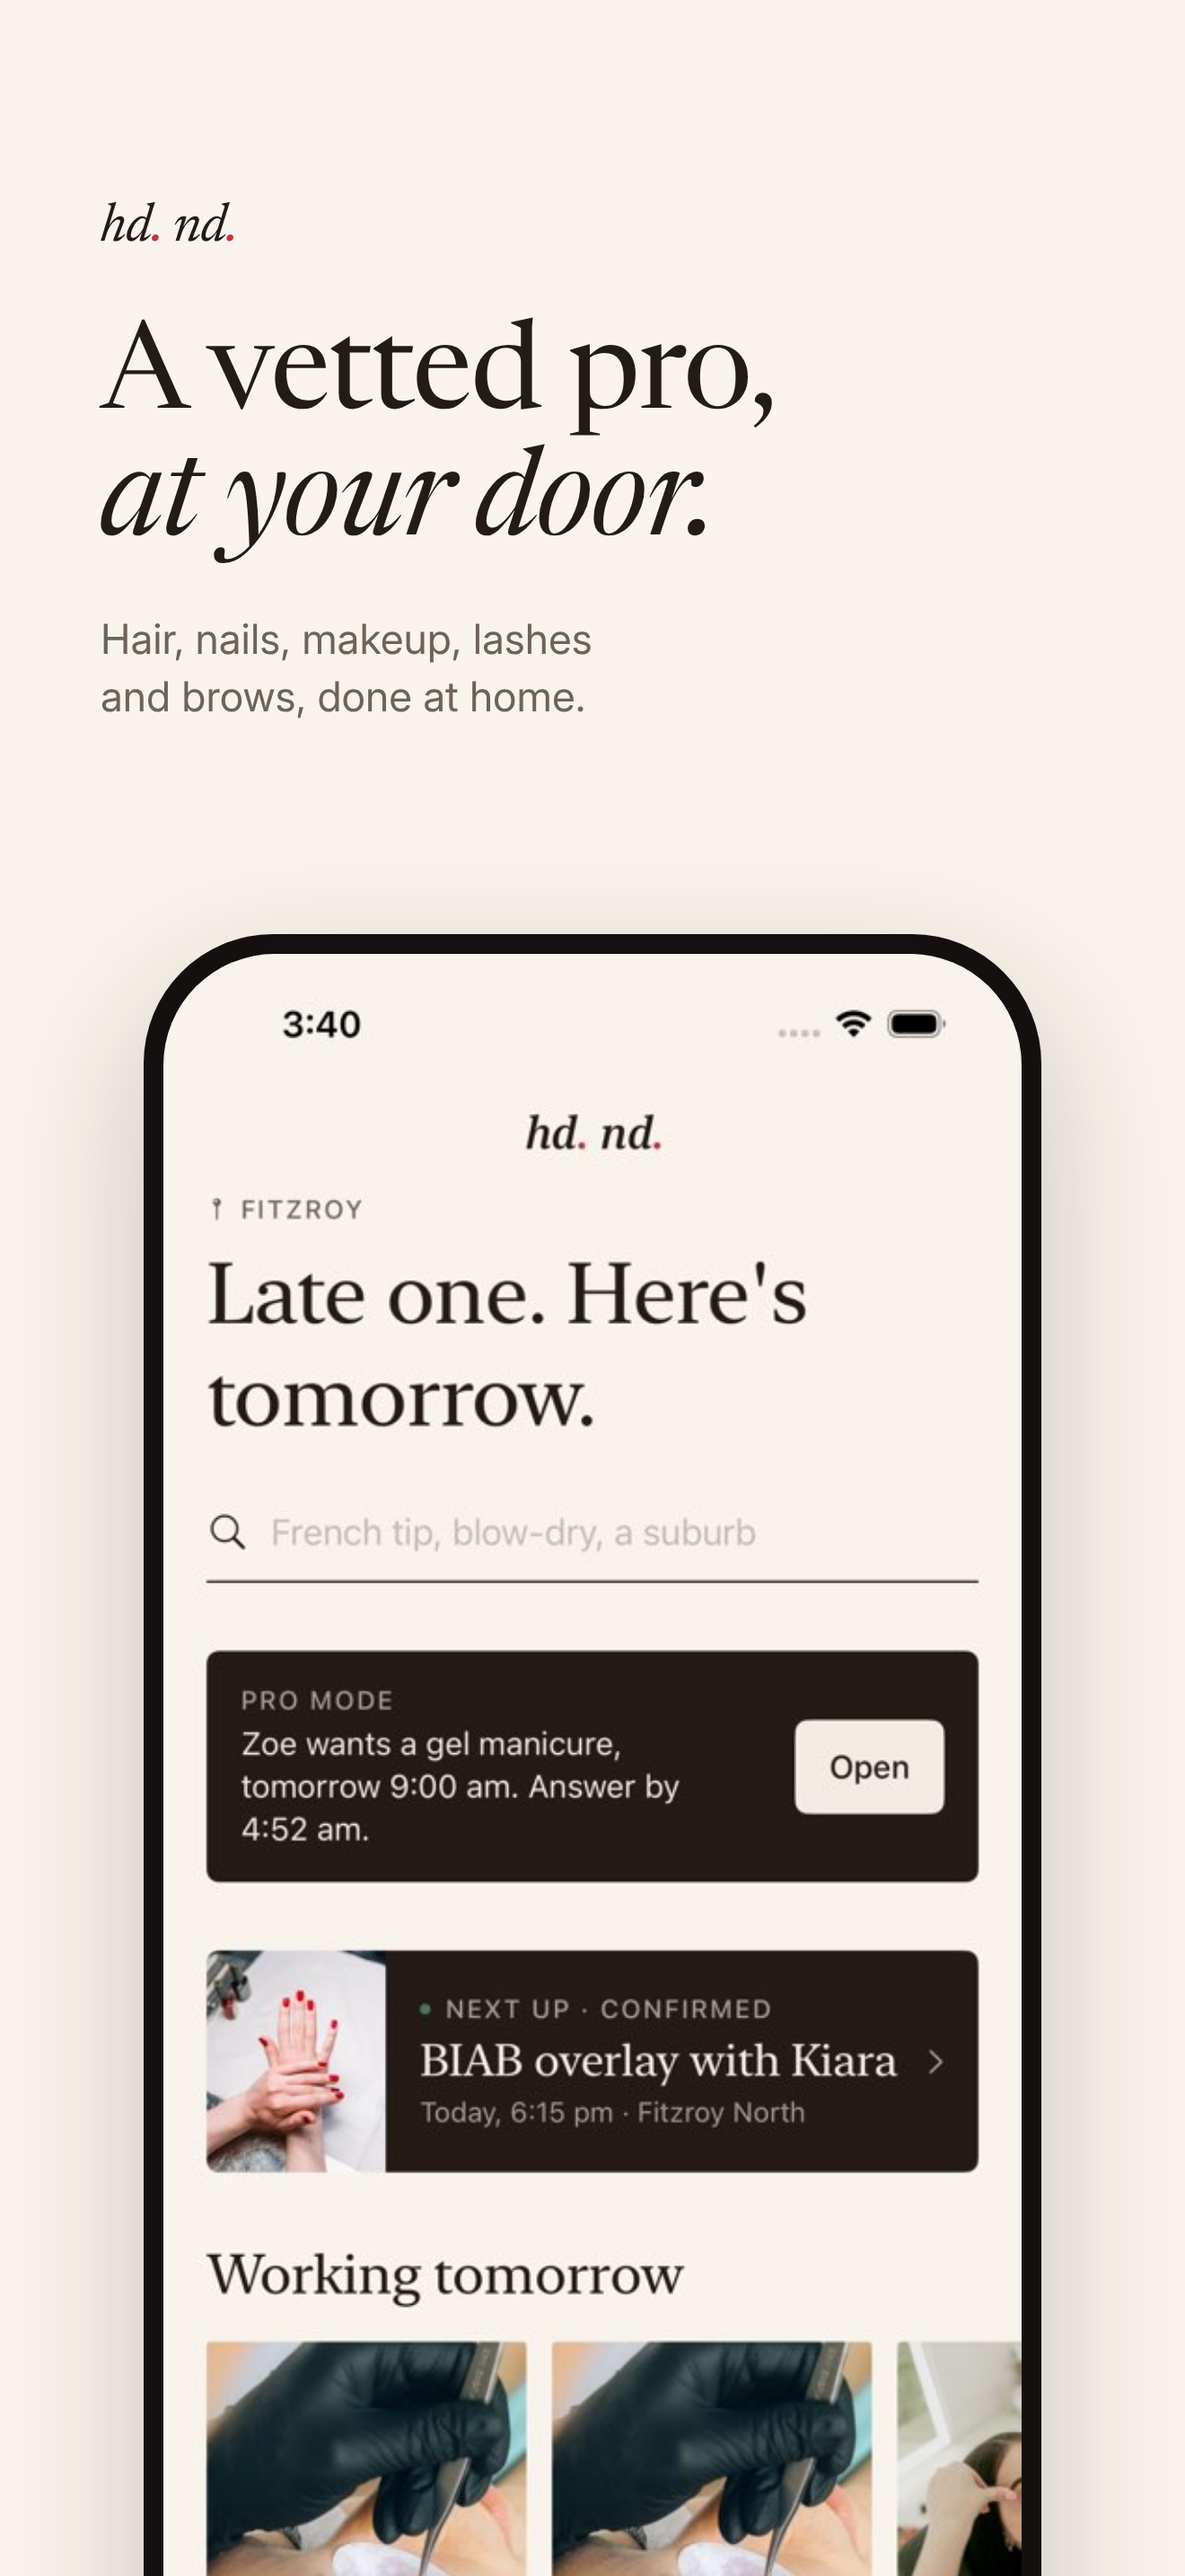
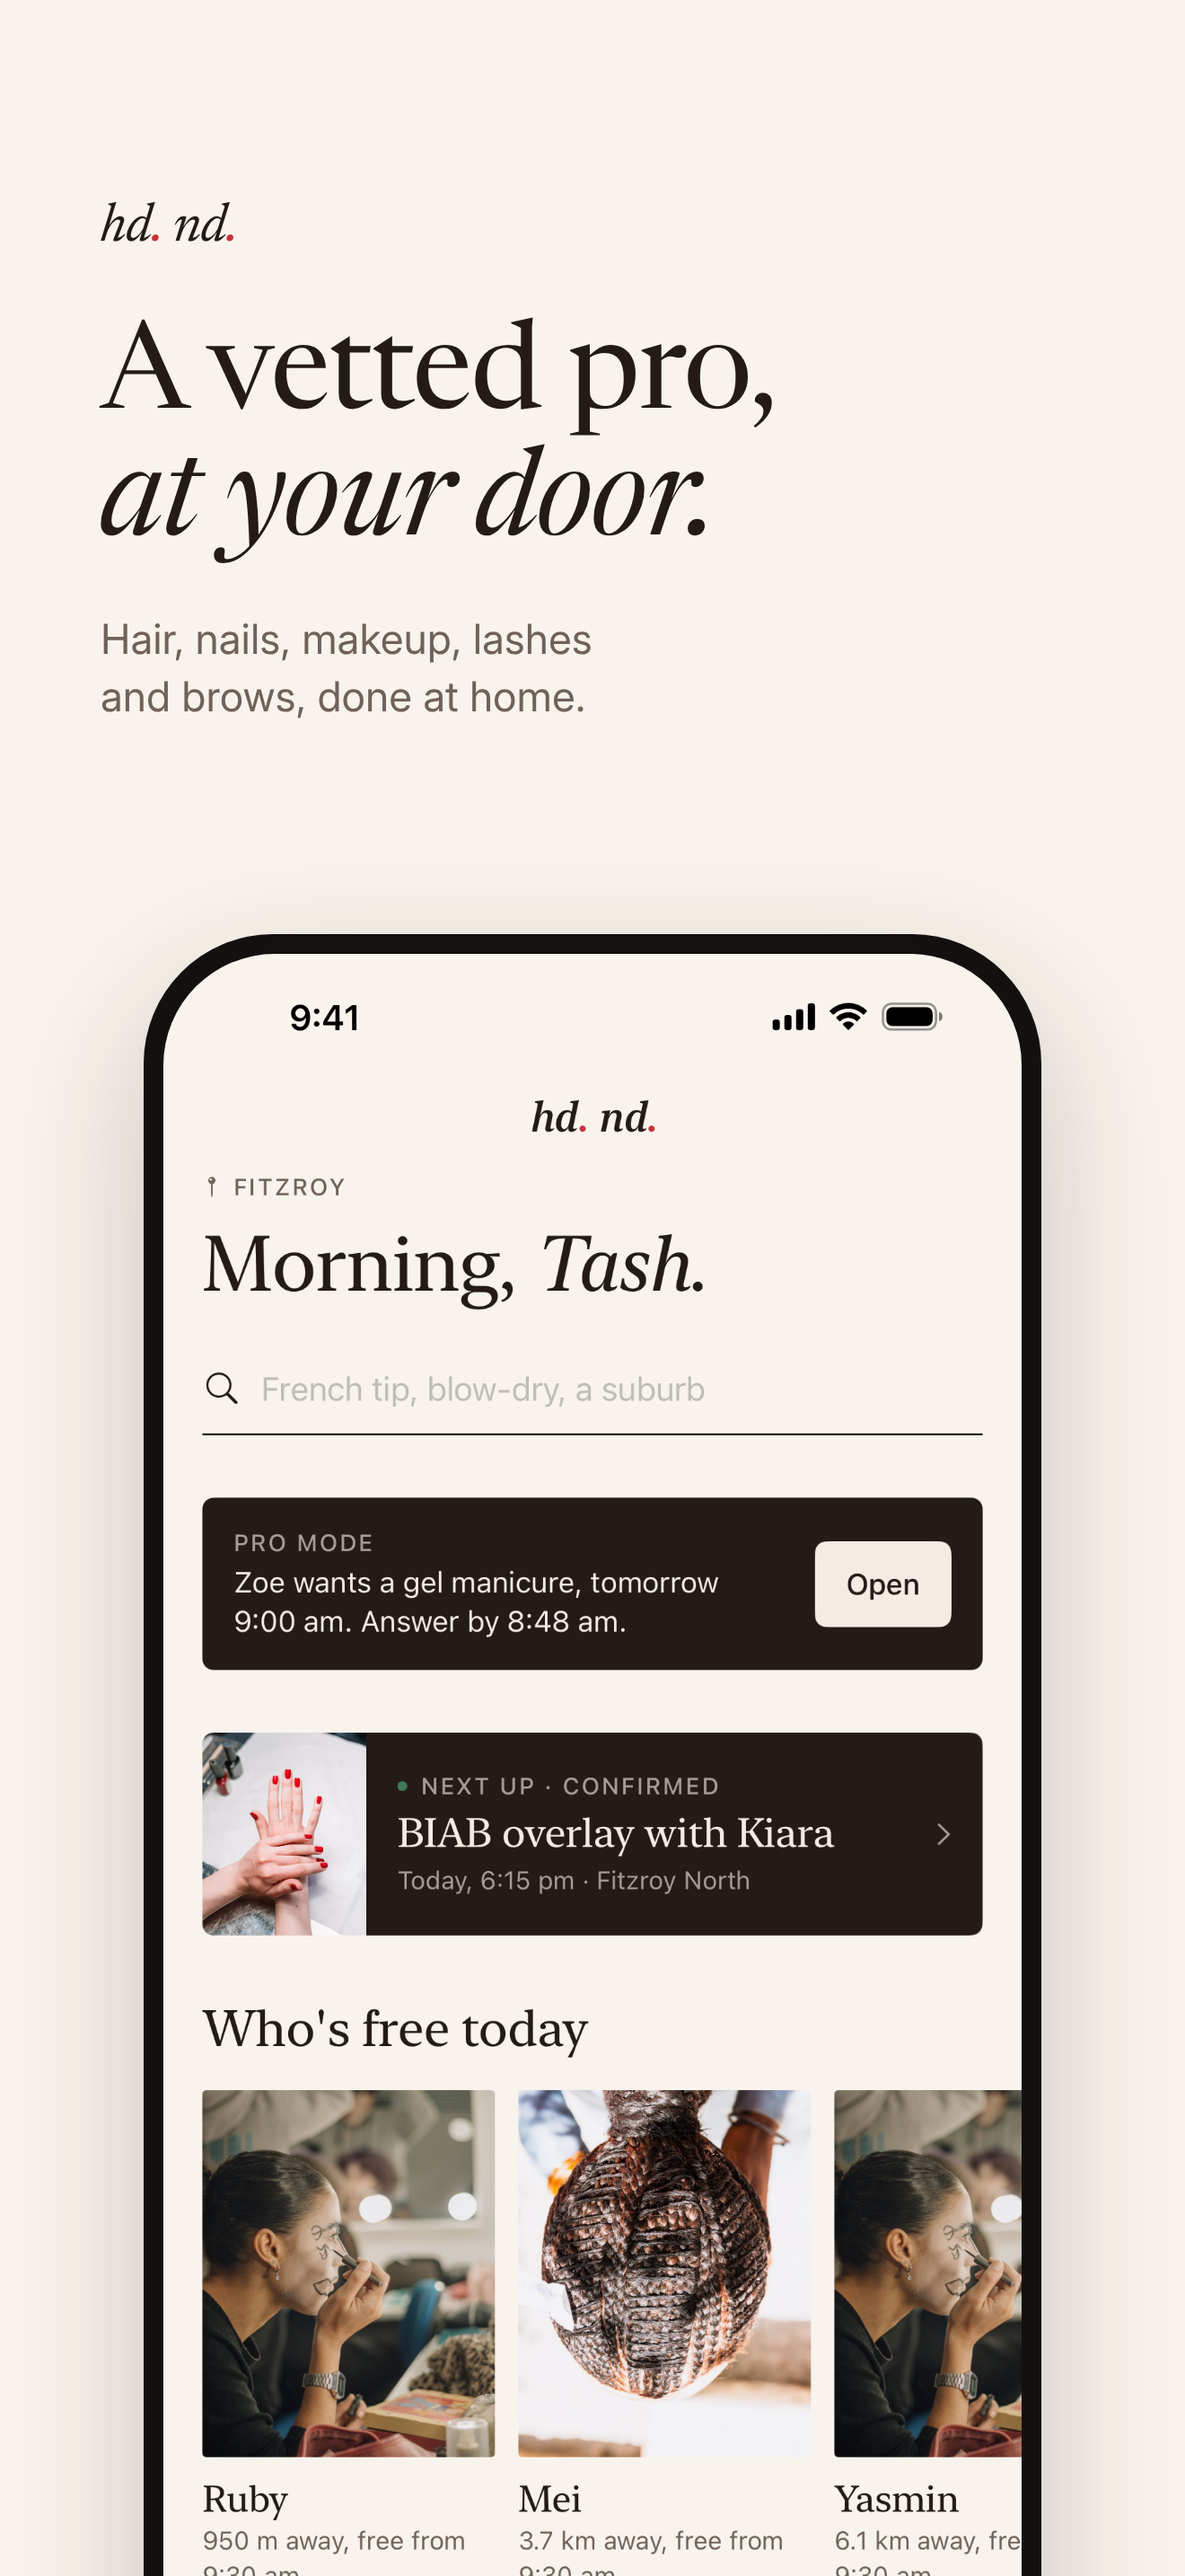
App Store screenshots: the final six, from the real app
docs/app-store/screenshots/1-6.png, 1320 x 2868 RGB, for App Store Connect's 6.9-inch slot.

Claude-Session: https://claude.ai/code/session_01V3fgQkRmMxs5jjtqfekmEC

Changed region(s): [[0.1553, 0.4344, 0.8697, 1.0], [0.6523, 0.3724, 0.8076, 0.4034], [0.2485, 0.3724, 0.3106, 0.4034]]

diff --git a/hair-done/docs/design/mockups/appstore/appstore-4.html b/hair-done/docs/design/mockups/appstore/appstore-4.html
@@ -13,4 +13,4 @@ body.ink p{color:rgba(248,243,236,.72)}
   border-radius:72px;box-shadow:0 30px 80px rgba(36,26,22,.22)}
 body.ink .phone{background:#000;box-shadow:0 0 0 1.5px rgba(248,243,236,.18)}
 .phone img{display:block;width:100%;border-radius:62px}
-</style></head><body class=""><div class="cap"><div class="mark">hd<span>.</span> nd<span>.</span></div><h1>See them<br><i>on their way.</i></h1><p>On their way, at the door, started. You see each step.</p></div><div class="phone"><img src="../../../qa/screens/light-client-bookings-1-top.jpg"></div></body></html>
+</style></head><body class=""><div class="cap"><div class="mark">hd<span>.</span> nd<span>.</span></div><h1>See them<br><i>on their way.</i></h1><p>On their way, at the door, started. You see each step.</p></div><div class="phone"><img src="../../../app-store/raw/appstore-4-bookings.png"></div></body></html>

diff --git a/hair-done/docs/design/mockups/appstore/appstore-1.html b/hair-done/docs/design/mockups/appstore/appstore-1.html
@@ -13,4 +13,4 @@ body.ink p{color:rgba(248,243,236,.72)}
   border-radius:72px;box-shadow:0 30px 80px rgba(36,26,22,.22)}
 body.ink .phone{background:#000;box-shadow:0 0 0 1.5px rgba(248,243,236,.18)}
 .phone img{display:block;width:100%;border-radius:62px}
-</style></head><body class=""><div class="cap"><div class="mark">hd<span>.</span> nd<span>.</span></div><h1>A vetted pro,<br><i>at your door.</i></h1><p>Hair, nails, makeup, lashes and brows, done at home.</p></div><div class="phone"><img src="../../../qa/screens/light-client-home-1-top.jpg"></div></body></html>
+</style></head><body class=""><div class="cap"><div class="mark">hd<span>.</span> nd<span>.</span></div><h1>A vetted pro,<br><i>at your door.</i></h1><p>Hair, nails, makeup, lashes and brows, done at home.</p></div><div class="phone"><img src="../../../app-store/raw/appstore-1-home.png"></div></body></html>

diff --git a/hair-done/docs/design/mockups/appstore/appstore-2.html b/hair-done/docs/design/mockups/appstore/appstore-2.html
@@ -13,4 +13,4 @@ body.ink p{color:rgba(248,243,236,.72)}
   border-radius:72px;box-shadow:0 30px 80px rgba(36,26,22,.22)}
 body.ink .phone{background:#000;box-shadow:0 0 0 1.5px rgba(248,243,236,.18)}
 .phone img{display:block;width:100%;border-radius:62px}
-</style></head><body class=""><div class="cap"><div class="mark">hd<span>.</span> nd<span>.</span></div><h1>See the price<br>before you <i>book.</i></h1><p>Their prices, their travel fee and their own work, up front.</p></div><div class="phone"><img src="screen-03-profile.jpg"></div></body></html>
+</style></head><body class=""><div class="cap"><div class="mark">hd<span>.</span> nd<span>.</span></div><h1>See the price<br>before you <i>book.</i></h1><p>Their prices, their travel fee and their own work, up front.</p></div><div class="phone"><img src="../../../app-store/raw/appstore-2-profile.png"></div></body></html>

diff --git a/hair-done/docs/design/mockups/appstore/appstore-6.html b/hair-done/docs/design/mockups/appstore/appstore-6.html
@@ -13,4 +13,4 @@ body.ink p{color:rgba(248,243,236,.72)}
   border-radius:72px;box-shadow:0 30px 80px rgba(36,26,22,.22)}
 body.ink .phone{background:#000;box-shadow:0 0 0 1.5px rgba(248,243,236,.18)}
 .phone img{display:block;width:100%;border-radius:62px}
-</style></head><body class=""><div class="cap"><div class="mark">hd<span>.</span> nd<span>.</span></div><h1>Pros: your diary,<br><i>your prices.</i></h1><p>Take requests, get paid to your bank. Same app.</p></div><div class="phone"><img src="../../../qa/screens/light-pro-today-1-top.jpg"></div></body></html>
+</style></head><body class=""><div class="cap"><div class="mark">hd<span>.</span> nd<span>.</span></div><h1>Pros: your diary,<br><i>your prices.</i></h1><p>Take requests, get paid to your bank. Same app.</p></div><div class="phone"><img src="../../../app-store/raw/appstore-6-pro-today.png"></div></body></html>

diff --git a/hair-done/docs/design/mockups/appstore/appstore-5.html b/hair-done/docs/design/mockups/appstore/appstore-5.html
@@ -13,4 +13,4 @@ body.ink p{color:rgba(248,243,236,.72)}
   border-radius:72px;box-shadow:0 30px 80px rgba(36,26,22,.22)}
 body.ink .phone{background:#000;box-shadow:0 0 0 1.5px rgba(248,243,236,.18)}
 .phone img{display:block;width:100%;border-radius:62px}
-</style></head><body class=""><div class="cap"><div class="mark">hd<span>.</span> nd<span>.</span></div><h1>Pay when<br>it's <i>done.</i></h1><p>Tip if you like. It all goes to them.</p></div><div class="phone"><img src="screen-12-receipt-sheet.jpg"></div></body></html>
+</style></head><body class=""><div class="cap"><div class="mark">hd<span>.</span> nd<span>.</span></div><h1>Pay when<br>it's <i>done.</i></h1><p>Tip if you like. It all goes to them.</p></div><div class="phone"><img src="../../../app-store/raw/appstore-5-receipt.png"></div></body></html>

diff --git a/hair-done/docs/design/mockups/appstore/appstore-3.html b/hair-done/docs/design/mockups/appstore/appstore-3.html
@@ -13,4 +13,4 @@ body.ink p{color:rgba(248,243,236,.72)}
   border-radius:72px;box-shadow:0 30px 80px rgba(36,26,22,.22)}
 body.ink .phone{background:#000;box-shadow:0 0 0 1.5px rgba(248,243,236,.18)}
 .phone img{display:block;width:100%;border-radius:62px}
-</style></head><body class="ink"><div class="cap"><div class="mark">hd<span>.</span> nd<span>.</span></div><h1>Booked in<br><i>a minute.</i></h1><p>Nothing's charged until they're done.</p></div><div class="phone"><img src="screen-05-booked.jpg"></div></body></html>
+</style></head><body class="ink"><div class="cap"><div class="mark">hd<span>.</span> nd<span>.</span></div><h1>Booked in<br><i>a minute.</i></h1><p>Nothing's charged until they're done.</p></div><div class="phone"><img src="../../../app-store/raw/appstore-3-booked.png"></div></body></html>
